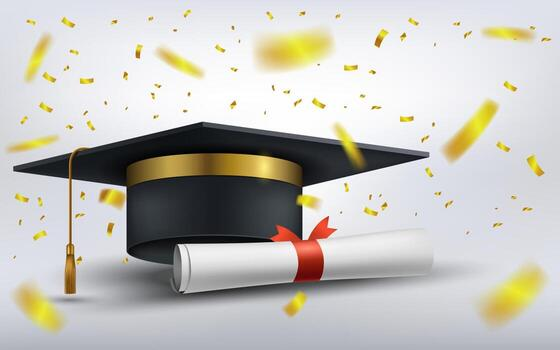
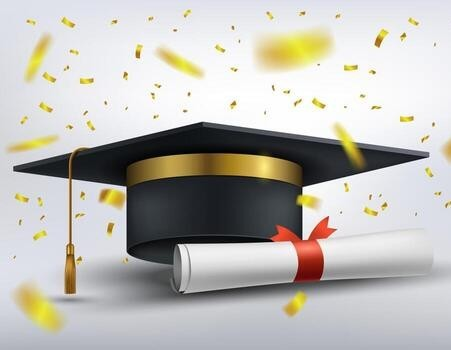
code is modified

diff --git a/CSSTask4.html b/CSSTask4.html
@@ -1,0 +1,170 @@
+<!DOCTYPE html>
+<html lang="en">
+<head>
+    <meta charset="UTF-8">
+    <meta name="viewport" content="width=device-width, initial-scale=1.0">
+    <title>invitation</title>
+    <style>
+        body{
+            height: 100%;
+            background: url("graguation4.webp") no-repeat fixed;
+            background-size: cover;
+          
+        }
+        div{
+             background-color:rgb(255, 255, 255,0.3);
+             height: 100%;
+        }
+        #box1{
+            height: 100%;
+            width: 50%;
+            text-align: center;
+            background-color: rgb(224, 141, 224);
+            border:5px solid blueviolet;
+            border-radius: 20px;
+            margin-left: auto;
+            margin-right: auto;
+        }
+        #image1{
+            border: 5px solid blueviolet;
+            border-radius: 20px;
+            
+        }
+        #box{
+            margin-top: 50px;
+             background-color: rgb(199, 91, 199);
+              border: 5px solid blueviolet;
+            border-radius: 20px;
+            width: 80%;
+            
+        }
+         #box2{
+             background-color: rgb(199, 91, 199);
+              border: 5px solid blueviolet;
+            border-radius: 20px;
+            width: 80%;
+        }
+        .box3{
+            height:10px;
+            width:10px;
+              border: 5px solid blueviolet;
+         
+            padding: 2px;
+        }
+        table{
+            
+            height:10px;
+            width:80%;
+            border: 5px solid blueviolet;
+            margin-left: auto;
+            margin-right: auto;
+          border-radius: 20px;
+           background-color: rgb(199, 91, 199);
+           border-spacing:20px ;
+        }
+         .image{
+            border: 5px solid blueviolet;
+            border-radius: 20px;
+            
+        }
+    </style>
+</head>
+<body>
+    <div>
+        <br><br>
+    <form>
+        <fieldset id="box1">
+            <h3 style="font-size: 30px; color: blueviolet; text-align: center; font-family: 'Gill Sans', 'Gill Sans MT', Calibri, 'Trebuchet MS', sans-serif;">💫🎓 YOU'RE INVITED🎓💫</h3>
+            <h1 style="font-size: 90px; color: blueviolet; text-align: center; font-family:fantasy">🎓 Graduation Day Invitation 🎓</h1>
+            <h3 style="font-size: 30px; color:rgb(148, 70, 222); text-align: center; font-family:'Segoe UI', Tahoma, Geneva, Verdana, sans-serif"> Join us for elegant evening filled with joy, music, delicious food and beautiful memories.</h3>
+            <img id="image1" src="graduation3.webp" height="500" width="80%" margin="200px">
+            <table class="table1" style="margin-top: 200px; margin-bottom: 200px; ">
+                <tr>
+                    <td>
+                <table style="border: none;">
+                 <h1 style="font-size: 40px; color: blueviolet; text-align: center; font-family: 'Gill Sans', 'Gill Sans MT', Calibri, 'Trebuchet MS', sans-serif;">Event Details</h1>
+                <tr>
+                    <td style="  background-color: rgb(224, 141, 224); border: 2px solid blueviolet ; border-radius: 20px;">
+                       <h3 style="font-size: 30px; color: blueviolet; text-align: center; font-family: 'Gill Sans', 'Gill Sans MT', Calibri, 'Trebuchet MS', sans-serif;">Date</h3>
+                       <p style="font-size: 30px; color: blueviolet; text-align: center; font-family: 'Gill Sans', 'Gill Sans MT', Calibri, 'Trebuchet MS', sans-serif;">18 July 2026</p>   
+                    </td>
+                    <td style="border: 2px solid blueviolet;  background-color: rgb(224, 141, 224); border-radius: 20px;">
+                         <h3 style="font-size: 30px; color: blueviolet; text-align: center; font-family: 'Gill Sans', 'Gill Sans MT', Calibri, 'Trebuchet MS', sans-serif;">Time</h3>
+                            <p style="font-size: 30px; color: blueviolet; text-align: center; font-family: 'Gill Sans', 'Gill Sans MT', Calibri, 'Trebuchet MS', sans-serif;">5:30 PM</p>
+                       
+                    </td>
+                </tr>
+                <tr>
+                    <td colspan="2" style=" background-color: rgb(224, 141, 224); border: 2px solid blueviolet; border-radius: 20px;">
+                           <h3 style="font-size: 30px; color: blueviolet; text-align: center; font-family: 'Gill Sans', 'Gill Sans MT', Calibri, 'Trebuchet MS', sans-serif;">Venue</h3>
+                            <p style="font-size: 30px; color: blueviolet; text-align: center; font-family: 'Gill Sans', 'Gill Sans MT', Calibri, 'Trebuchet MS', sans-serif;">Sree Venkateswara College Of Engineering </p>
+                       
+                    </td>
+                </tr>
+                </table>
+                </td>
+                </tr>
+            </table>
+             <table class="table1" style=" margin-bottom: 200px; ">
+                <tr>
+                    <td>
+                <table style="border: none;">
+                 <h1 style="font-size: 40px; color: blueviolet; text-align: center; font-family: 'Gill Sans', 'Gill Sans MT', Calibri, 'Trebuchet MS', sans-serif;">Schedule</h1>
+                <tr>
+                    <td style="  background-color: rgb(224, 141, 224); border: 2px solid blueviolet ; border-radius: 20px;">
+                            <h3 style="font-size: 30px; color: blueviolet; text-align: center; font-family: 'Gill Sans', 'Gill Sans MT', Calibri, 'Trebuchet MS', sans-serif;">Welcome</h3>
+                            <p style="font-size: 30px; color: blueviolet; text-align: center; font-family: 'Gill Sans', 'Gill Sans MT', Calibri, 'Trebuchet MS', sans-serif;">5:30 PM</p>
+                    </td>
+                    <td style="border: 2px solid blueviolet;  background-color: rgb(224, 141, 224); border-radius: 20px;">
+                            <h3 style="font-size: 30px; color: blueviolet; text-align: center; font-family: 'Gill Sans', 'Gill Sans MT', Calibri, 'Trebuchet MS', sans-serif;">Live Music</h3>
+                            <p style="font-size: 30px; color: blueviolet; text-align: center; font-family: 'Gill Sans', 'Gill Sans MT', Calibri, 'Trebuchet MS', sans-serif;">7:00 PM</p>
+                       
+                    </td>
+                    <td style="border: 2px solid blueviolet;  background-color: rgb(224, 141, 224); border-radius: 20px;">
+                            <h3 style="font-size: 30px; color: blueviolet; text-align: center; font-family: 'Gill Sans', 'Gill Sans MT', Calibri, 'Trebuchet MS', sans-serif;">Dinner</h3>
+                            <p style="font-size: 30px; color: blueviolet; text-align: center; font-family: 'Gill Sans', 'Gill Sans MT', Calibri, 'Trebuchet MS', sans-serif;">8:00 PM</p>
+
+                    </td>
+                </tr>
+                <tr>
+                    <td colspan="3" style=" background-color: rgb(224, 141, 224); border: 2px solid blueviolet; border-radius: 20px;">
+                            <h3 style="font-size: 30px; color: blueviolet; text-align: center; font-family: 'Gill Sans', 'Gill Sans MT', Calibri, 'Trebuchet MS', sans-serif;">Celebration</h3>
+                            <p style="font-size: 30px; color: blueviolet; text-align: center; font-family: 'Gill Sans', 'Gill Sans MT', Calibri, 'Trebuchet MS', sans-serif;">9:00 PM</p>
+                       
+                    </td>
+                </tr>
+                </table>
+                </td>
+                </tr>
+            </table>
+              <table class="table1" style=" margin-bottom: 200px; ">
+                <tr>
+                    <td>
+                <table style="border: none;">
+                 <h1 style="font-size: 40px; color: blueviolet; text-align: center; font-family: 'Gill Sans', 'Gill Sans MT', Calibri, 'Trebuchet MS', sans-serif;">Gallery</h1>
+                <tr>
+                    <td>
+                         <img  class="image" src="graduathion1.webp"  height="300" width="300">
+                    </td>
+                    <td>
+                         <img class="image" src="graduation2.jpg"  height="300" width="300">
+                    </td>
+                </tr>
+                <tr>
+                    <td colspan="2">
+                            <img class="image" src="graduation.jpg"  height="300" width="80%">
+                    </td>
+                </tr>
+                </table>
+                </td>
+                </tr>
+            </table>
+            <h3 style="font-size: 50px; color: blueviolet; text-align: center; font-family: 'Gill Sans', 'Gill Sans MT', Calibri, 'Trebuchet MS', sans-serif;">"Life is made beautiful by the people we celebrate it with."</h3><br>
+            <input style="font-size: 30px; background-color: rgb(136, 43, 224,0.2); height: 50px;  border-radius: 15px;" type="button" value="RSVP NOW">
+            <br>
+             <h3 style="font-size: 30px; color: blueviolet; text-align: center; font-family: 'Gill Sans', 'Gill Sans MT', Calibri, 'Trebuchet MS', sans-serif;">💝 Hosted With Love 💝</h3><br>
+        </fieldset>
+    </form>
+    </div>
+</body>
+</html>
